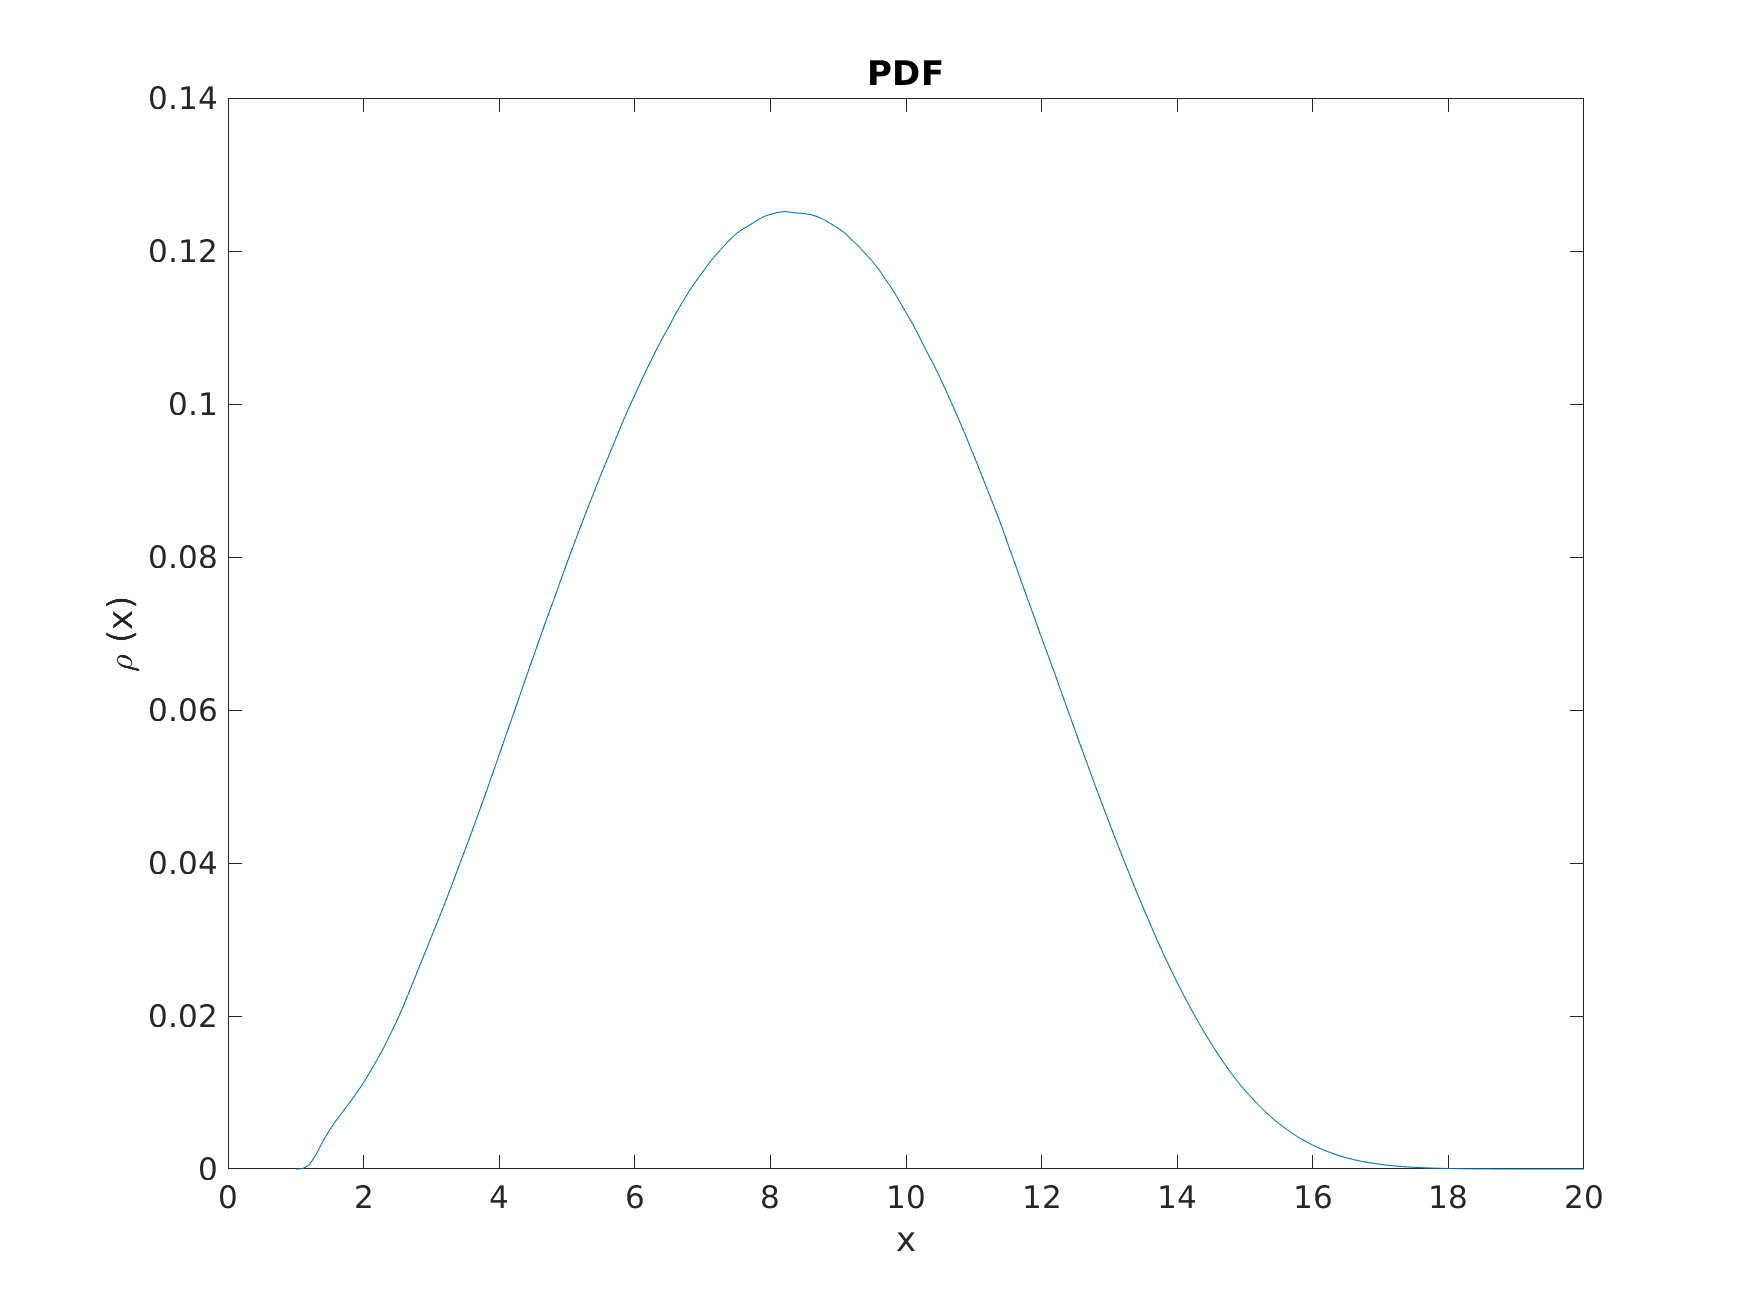
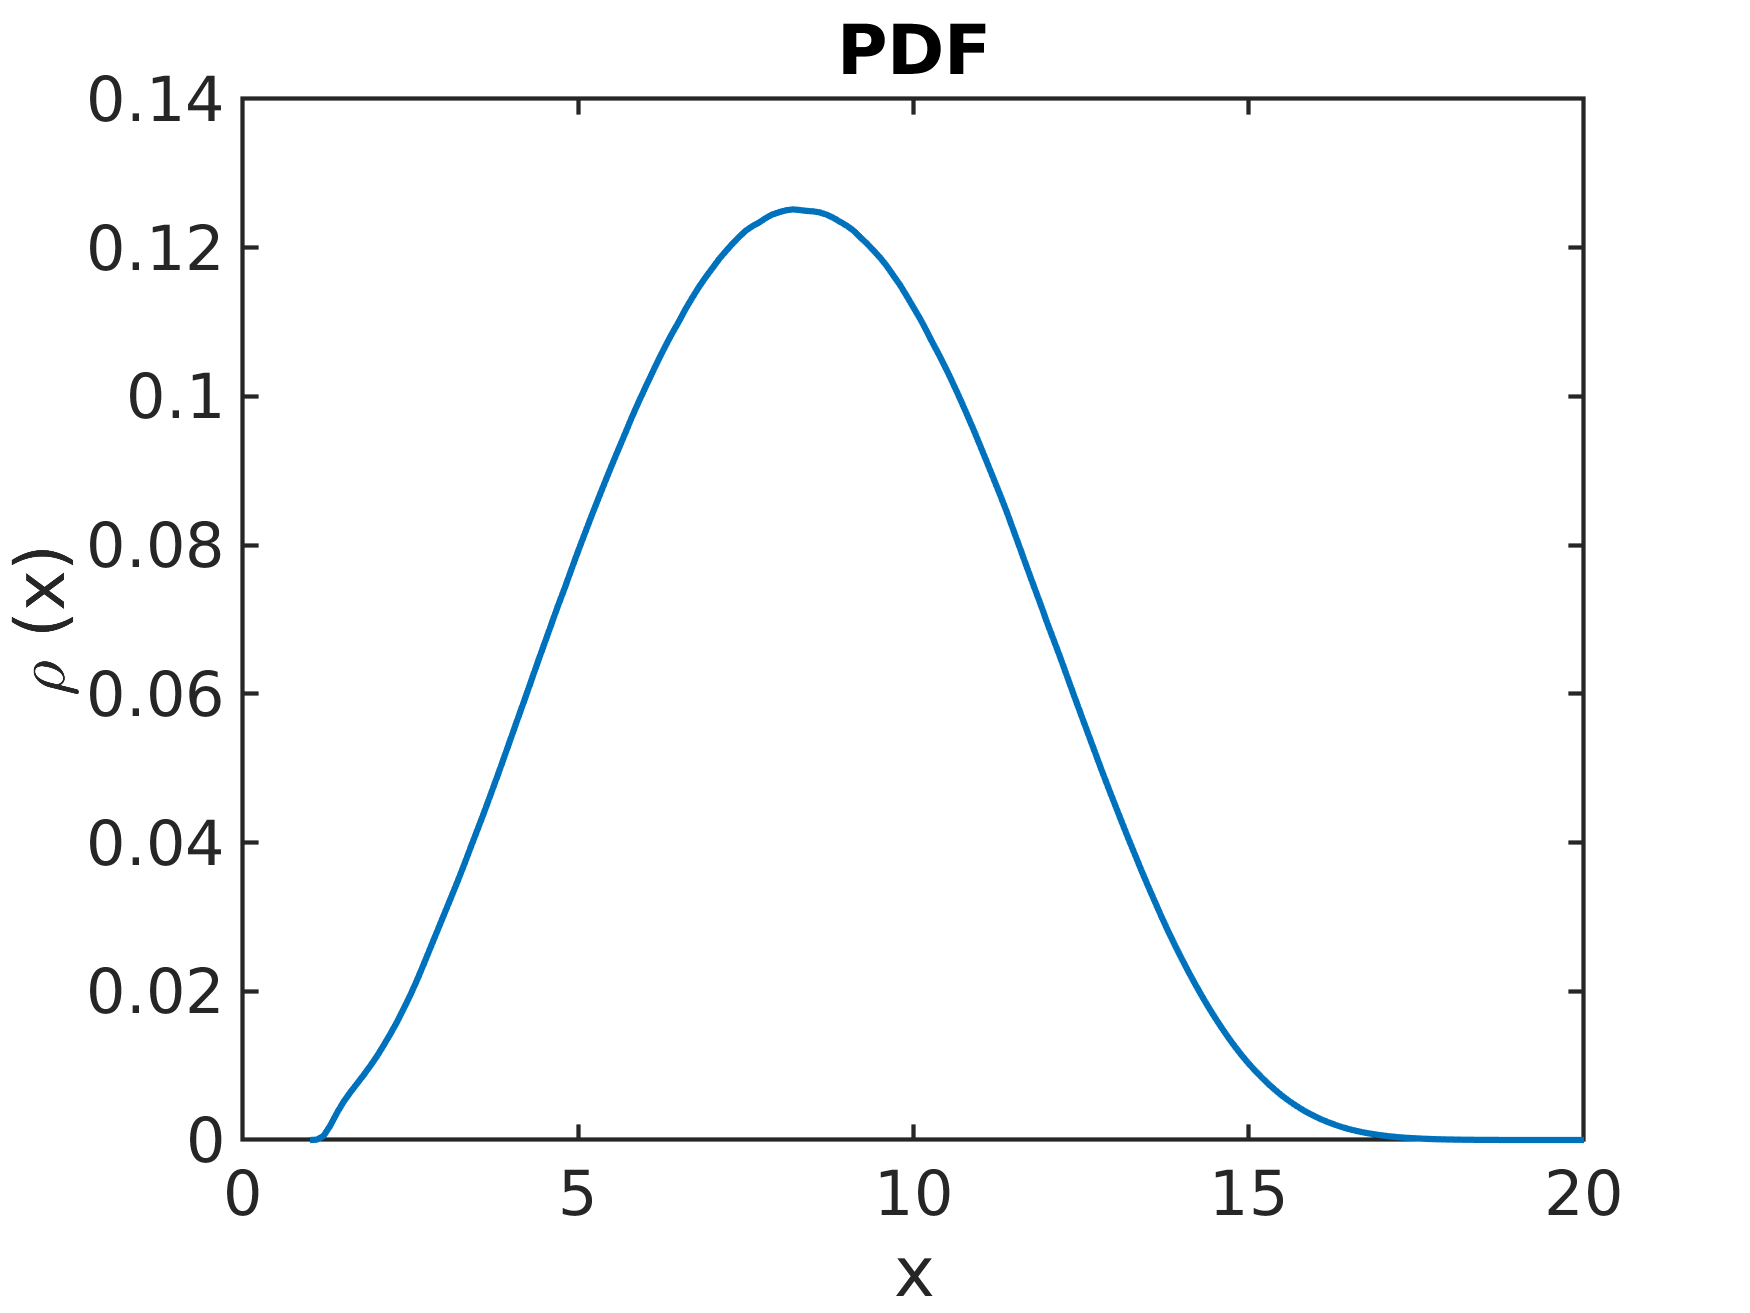
update

diff --git a/case_unimodal/main.m b/case_unimodal/main.m
@@ -54,12 +54,15 @@ corr3=load('data/corr_hx_GLE_1D.mat');
 corr4=load('data/corr_hx_GLE_2D.mat');
 
 figure(1);hold on;box on
+set(gcf, 'DefaultLineLineWidth', 3.0,'DefaultLineMarkerSize',12);
 plot(ff_x,pdf)
 title('PDF')
 xlabel('x');ylabel('\rho (x)')
+set(gca,'FontSize',30,'LineWidth',2.0)
 saveas(gcf,'fig/PDF.png')
 
 figure(2);hold on;box on
+set(gcf, 'DefaultLineLineWidth', 3.0,'DefaultLineMarkerSize',12);
 corr_ver='corr_vv';
 plot(corr1.corr_t,corr1.(corr_ver),'Displayname','MD')
 plot(corr2.corr_t,corr2.(corr_ver),'Displayname','GLE')
@@ -69,9 +72,11 @@ xlim([0,40])
 legend
 title('<v(t),v(0)>')
 xlabel('x');ylabel('\rho (x)')
+set(gca,'FontSize',30,'LineWidth',2.0)
 saveas(gcf,'fig/corr_vv.png')
 
 figure(3);hold on;box on
+set(gcf, 'DefaultLineLineWidth', 3.0,'DefaultLineMarkerSize',12);
 corr_ver='xcorr_vv';
 i=1;
 for bin=8:8:32
@@ -83,10 +88,13 @@ for bin=8:8:32
     plot(corr2.xcorr_t,corr2.(corr_ver)(bin,:),'Displayname','GLE')
     plot(corr3.xcorr_t,corr3.(corr_ver)(bin,:),'Displayname','SD-GLE-1D')
     plot(corr4.xcorr_t,corr4.(corr_ver)(bin,:),'Displayname','SD-GLE-2D')
+    legend
+    set(gca,'FontSize',16,'LineWidth',2.0)
 end
 saveas(gcf,'fig/xcorr_vv.png')
 
 figure(4);hold on;box on
+set(gcf, 'DefaultLineLineWidth', 3.0,'DefaultLineMarkerSize',12);
 tail_x=(0:500)*0.02;bd=0.08;
 plot(tail_x,ksdensity(corr1.tail,tail_x,'Bandwidth',bd),'Displayname','MD')
 plot(tail_x,ksdensity(corr2.tail,tail_x,'Bandwidth',bd),'Displayname','GLE')
@@ -97,6 +105,7 @@ set(gca, 'YScale', 'log')
 legend
 title('Distribution for the time that x>15')
 xlabel('t');ylabel('P(t)')
+set(gca,'FontSize',30,'LineWidth',2.0)
 saveas(gcf,'fig/tail.png')
 
 

diff --git a/README.md b/README.md
@@ -35,4 +35,6 @@ Full data including MD data, training set and simulation data of unimodal case c
 
 ## software
 
-The python enviroments is given in file 'conda-environment.txt'. The Matlab version is 2022a. The LAMMPS version is (4 Jul 2012)
+Python enviroments is given in file 'conda-environment.txt'. 
+Matlab version is 2022a. 
+LAMMPS version is (4 Jul 2012)
